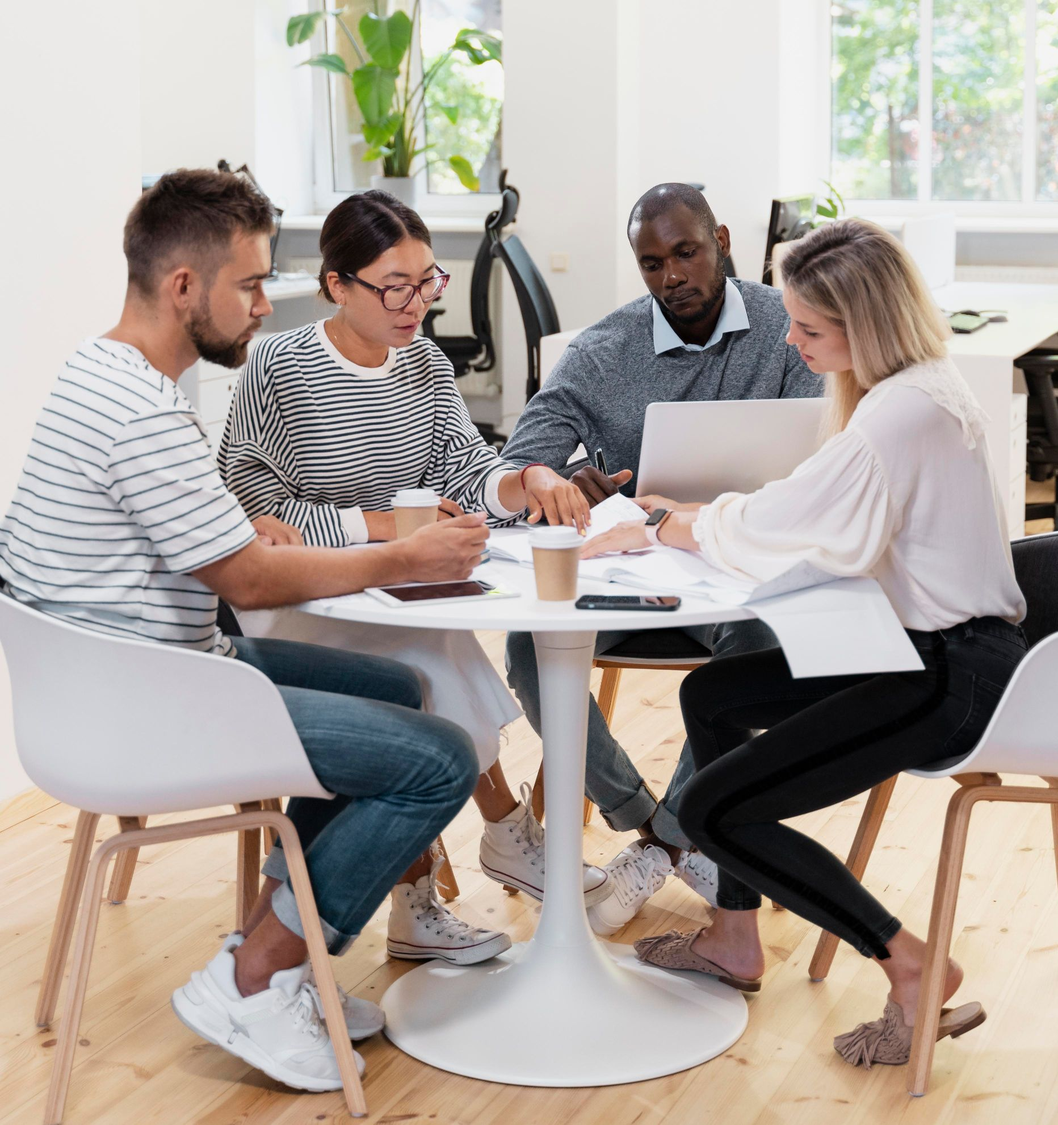
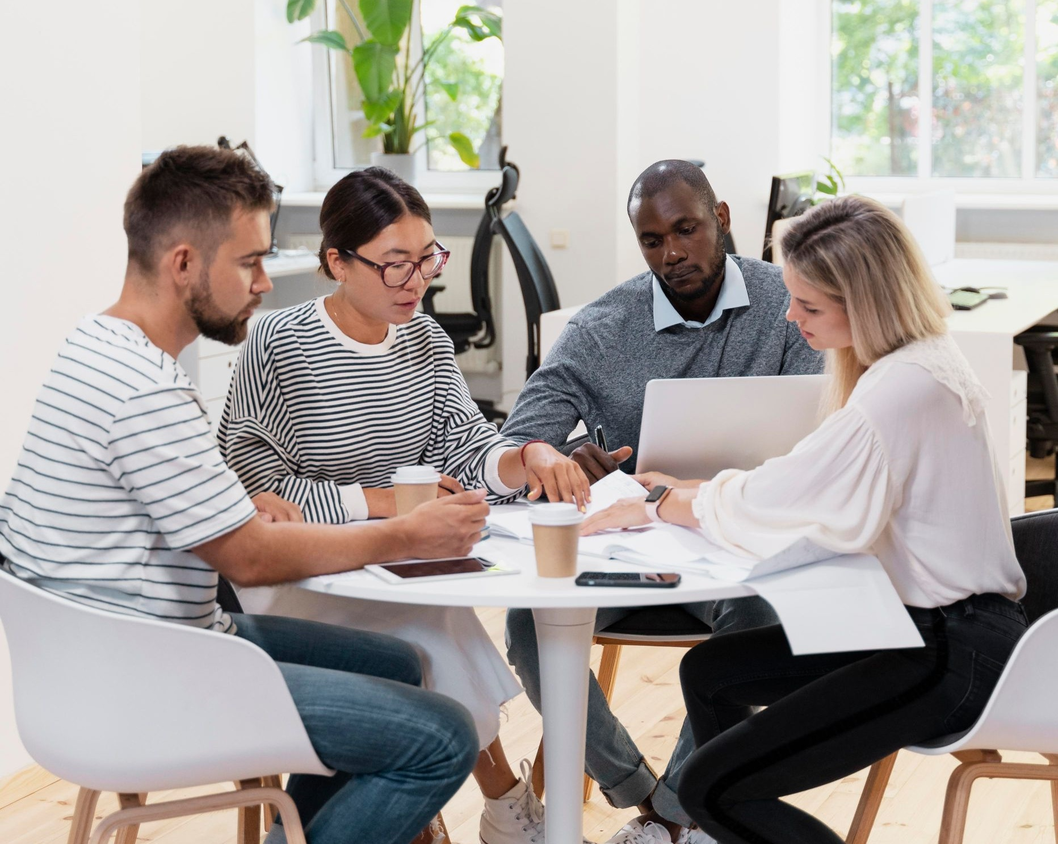
Change about-us text

diff --git a/client/src/pages/home/About.js b/client/src/pages/home/About.js
@@ -3,48 +3,28 @@ import AboutImg from '../../assets/images/about.jpg';
 
 const About = () => {
     return (
-        <section id="about" className='container mx-auto min-h-screen flex justify-between items-center'>
-            <div className='grid grid-cols-5 space-x-5 md:space-x-10'>
-                <div className='col-span-5 md:col-span-2 mx-5 space-y-2 flex flex-col relative'>
-                    <img src={AboutImg} alt="" className='flex-1 rounded-lg object-cover' />
-                    <div className="absolute w-full left-0 bottom-2">
-                        <div className='mx-2 grid grid-cols-2 gap-2'>
-                            <div className='flex flex-col rounded-lg bg-primary text-secondary px-4 py-6'>
-                                <span className='text-3xl font-semibold'>100+</span>
-                                <span className='text-sm font-light capitalize'>years experience</span>
-                            </div>
-                            <div className='flex flex-col rounded-lg bg-primary text-secondary px-4 py-6'>
-                                <span className='text-3xl font-semibold'>$0</span>
-                                <span className='text-sm font-light capitalize'>premiums</span>
-                            </div>
-                        </div>
-                    </div>
+        <section id="about" className='container mx-auto min-h-screen flex justify-center items-center'>
+            <div className='grid grid-cols-4 space-x-5 md:space-x-10'>
+                <div className='col-span-5 md:col-span-2 mx-5'>
+                    <img src={AboutImg} alt="" className='rounded-lg object-cover' />
                 </div>
-                <div className='col-span-5 md:col-span-3'>
-                    <h3 className='text-base font-bold text-dark capitalize'>About us</h3>
-                    <h2 className='text-4xl font-semibold text-secondary mb-4 uppercase'>Who we are</h2>
+                <div className='col-span-5 md:col-span-2'>
+                <h3 className='text-base font-bold text-dark capitalize'>About us</h3>
+                <h2 className='text-4xl font-semibold text-secondary mb-4 uppercase'>Who we are</h2>
                     <p className='text-dark-color'>
-                        With over a century of combined experience, the Subsidy Searches team
-                        has been helping individuals and families with their insurance needs.
+                        The Subsidy Searches team helps individuals and families with finding low cost insurance coverage.
                     </p>
                     <br />
                     <p className='text-dark-color'>
-                        Our dedicated benefit specialists have assisted hundreds of thousands of people
-                        in finding affordable health insurance plans, often with $0 premiums.
-                        Our goal is to enroll you and your family in a plan that offers the necessary
-                        coverage with maximum benefits at the lowest cost.
+                        Our dedicated benefit specialists have assisted thousands of people in finding affordable health insurance plans,
+                        often with $0 premiums. Our goal is to enroll you and your family in a plan that offers the necessary coverage with
+                        maximum benefits at the lowest cost.
                     </p>
                     <br />
                     <p className='text-dark-color'>
-                        At Subsidy Searches, we firmly believe that EVERYONE should have access to quality health
-                        insurance that fits with their budget. Let us find that plan for you today!
+                        At Subsidy Searches, we firmly believe that EVERYONE should have access to quality health insurance that fits with their
+                        budget. Let us find that plan for you today!
                     </p>
-                    <br />
-                    <p className='text-dark-color'>Sincerely,</p>
-                    <p className='text-dark-color'>
-                        <b>Jean</b>
-                    </p>
-                    <p className='text-dark-color'>Lead Benefit Specialist</p>
                 </div>
             </div>
         </section>
